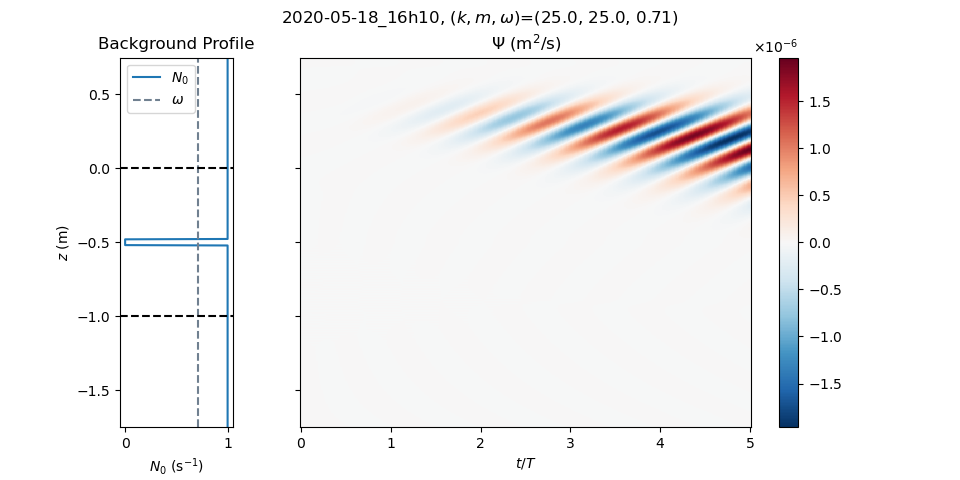
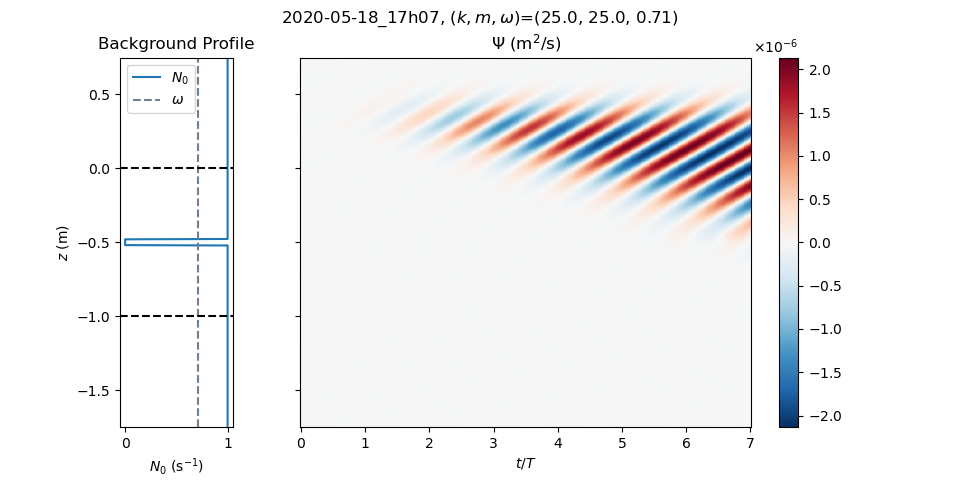
Attempting to plot k-space. Mismatch in data and axes

diff --git a/helper_functions.py b/helper_functions.py
@@ -137,6 +137,35 @@ def plot_z_vs_t(z, t_array, T, w_array, BP_array, k, m, omega, z0_dis=None, zf_d
     fig.suptitle(r'%s, $(k,m,\omega)$=(%s)' %(title_str, param_formated_str))
     plt.savefig('f_1D_wave.png')
 
+def plot_k_vs_t(ks, t_array, T, data_array, k, m, omega, z0_dis=None, zf_dis=None, c_map='RdBu_r', title_str='Forced 1D Wave'):
+    # Set aspect ratio of overall figure
+    w, h = mpl.figure.figaspect(0.5)
+    # This dictionary makes each subplot have the desired ratios
+    # The length of heights will be nrows and likewise len(widths)=ncols
+    plot_ratios = {'height_ratios': [1],
+                   'width_ratios': [1]}
+    # Set ratios by passing dictionary as 'gridspec_kw', and share y axis
+    fig, axes = plt.subplots(figsize=(w,h), nrows=1, ncols=1, gridspec_kw=plot_ratios, sharey=True)
+    #
+    xmesh, ymesh = quad_mesh(x=t_array/T, y=ks)
+    im = axes.pcolormesh(xmesh, ymesh, data_array, cmap=c_map)
+    # # Find max of absolute value for colorbar for limits symmetric around zero
+    # cmax = max(abs(data_array.flatten()))
+    # if cmax==0.0:
+    #     cmax = 0.001 # to avoid the weird jump with the first frame
+    # # Set upper and lower limits on colorbar
+    # im.set_clim(-cmax, cmax)
+    # Add colorbar to im
+    cbar = plt.colorbar(im)#, format=ticker.FuncFormatter(latex_exp))
+    cbar.ax.ticklabel_format(style='sci', scilimits=(-2,2), useMathText=True)
+    axes.set_xlabel(r'$t/T$')
+    axes.set_ylabel(r'$k$ (m$^{-1}$)')
+    # axes[1].set_title(r'$w$ (m/s)')
+    axes.set_title(r'$\Psi$ (m$^2$/s)')
+    param_formated_str = latex_exp(k)+', '+latex_exp(m)+', '+latex_exp(omega)
+    fig.suptitle(r'%s, $(k,m,\omega)$=(%s)' %(title_str, param_formated_str))
+    plt.savefig('f_1D_wave_spectra.png')
+
 ###############################################################################
 
 # Make a plot for one time slice

diff --git a/main.py b/main.py
@@ -71,6 +71,8 @@ domain      = sbp.domain
 # Z grid
 z_da        = sbp.z_da
 z           = sbp.z
+# Getting wavenumbers
+ks          = sbp.ks
 
 # Define problem
 # problem = de.IVP(domain, variables=['b', 'p', 'u', 'w'])
@@ -238,7 +240,8 @@ flow_log_message= sbp.flow_log_message
 # w_list = [np.copy(w['g'])]
 # t_list = [solver.sim_time]
 psi.set_scales(1)
-psi_list = [np.copy(psi['g'])]
+psi_gs = [np.copy(psi['g'])]
+psi_cs = [np.copy(psi['c'])]
 t_list = [solver.sim_time]
 ###############################################################################
 # Main loop
@@ -257,7 +260,8 @@ try:
             # w_list.append(np.copy(w['g']))
             # t_list.append(solver.sim_time)
             psi.set_scales(1)
-            psi_list.append(np.copy(psi['g']))
+            psi_gs.append(np.copy(psi['g']))
+            psi_cs.append(np.copy(psi['c']))
             t_list.append(solver.sim_time)
         if solver.iteration % logger_cadence == 0:
             logger.info(iteration_str %(solver.iteration, solver.sim_time/time_factor, dt/time_factor))
@@ -278,10 +282,14 @@ finally:
 # Create space-time plot
 # w_array = np.transpose(np.array(w_list))
 # t_array = np.array(t_list)
-psi_array = np.transpose(np.array(psi_list))
+psi_g_array = np.transpose(np.array(psi_gs))
+psi_c_array = np.transpose(np.array(psi_cs))
 t_array = np.array(t_list)
 
 # if sbp.plot_spacetime:
 #     hf.plot_z_vs_t(z, t_array, T, w_array, BP_array, k, m, omega, sbp.z0_dis, sbp.zf_dis, title_str=run_name)
 if sbp.plot_spacetime:
-    hf.plot_z_vs_t(z, t_array, T, psi_array, BP_array, k, m, omega, sbp.z0_dis, sbp.zf_dis, title_str=run_name)
+    hf.plot_z_vs_t(z, t_array, T, psi_g_array, BP_array, k, m, omega, sbp.z0_dis, sbp.zf_dis, title_str=run_name)
+
+if sbp.plot_wavespace:
+    hf.plot_k_vs_t(ks, t_array, T, psi_g_array, k, m, omega, sbp.z0_dis, sbp.zf_dis, title_str=run_name)

diff --git a/switchboard.py b/switchboard.py
@@ -14,7 +14,7 @@ from dedalus import public as de
 # Main parameters, the ones I'll change a lot. Many more below
 
 # Run parameters
-stop_n_periods = 5             # [] oscillation periods
+stop_n_periods = 7             # [] oscillation periods
 
 # Displayed domain parameters
 nz     = 1024                   # [] number of grid points in the z direction
@@ -26,7 +26,7 @@ z0_dis = zf_dis - Lz_dis        # [m] The bottom of the displayed domain
 # Problem parameters
 A       = 2.0e-4                # []            Amplitude of boundary forcing
 N_0     = 1.0                   # [rad/s]       Reference stratification
-f_0     = 0.0                   # [s^-1]        Reference Coriolis parameter
+f_0     = 0.001                 # [s^-1]        Reference Coriolis parameter
 set_case= 1                     # Picks combination of variables to set in switch below
 if set_case == 1:
     lam_z   = Lz_dis / 4.0          # [m]           Vertical wavelength
@@ -84,6 +84,8 @@ domain = de.Domain([z_basis], np.float64)
 # Z grid
 z_da = domain.grid(0, scales=domain.dealias)
 z = domain.grid(0)
+# Getting wavenumbers
+ks = z_basis.wavenumbers
 
 # Background profile in N_0
 n_steps = 1
@@ -150,7 +152,8 @@ g           = 9.81          # [m/s^2] Acceleration due to gravity
 # Plotting parameters
 
 plot_spacetime = True
-plot_windows = True
+plot_wavespace = True
+plot_windows   = True
 
 # Dark mode on or off (ideally would make plots that have white text and alpha background)
 dark_mode = False
